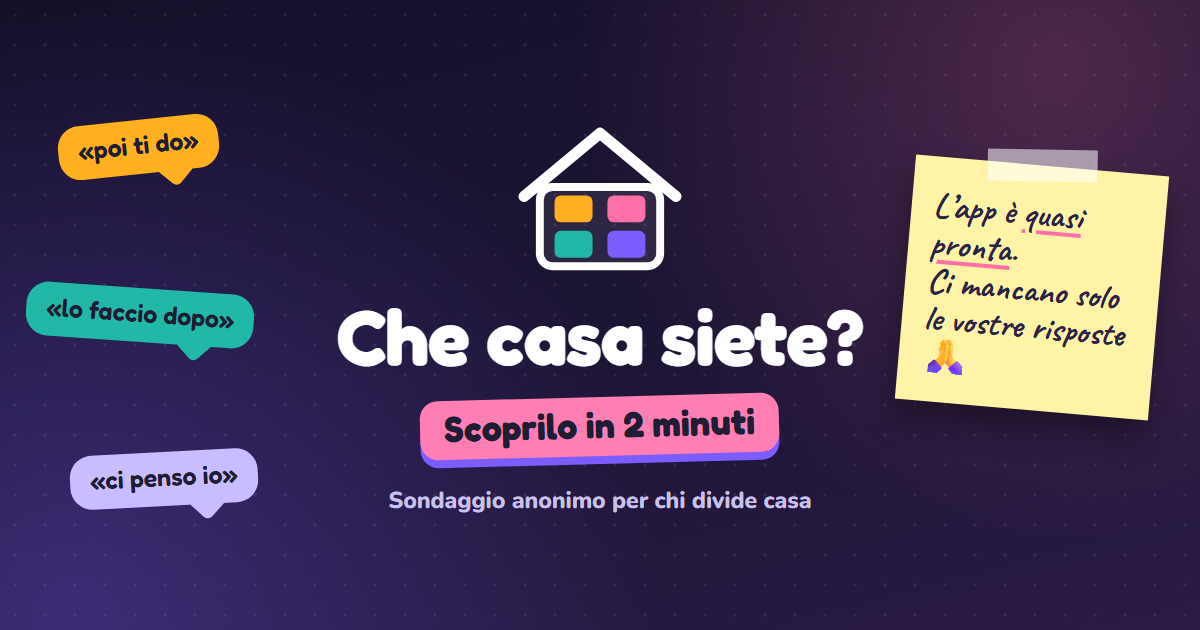
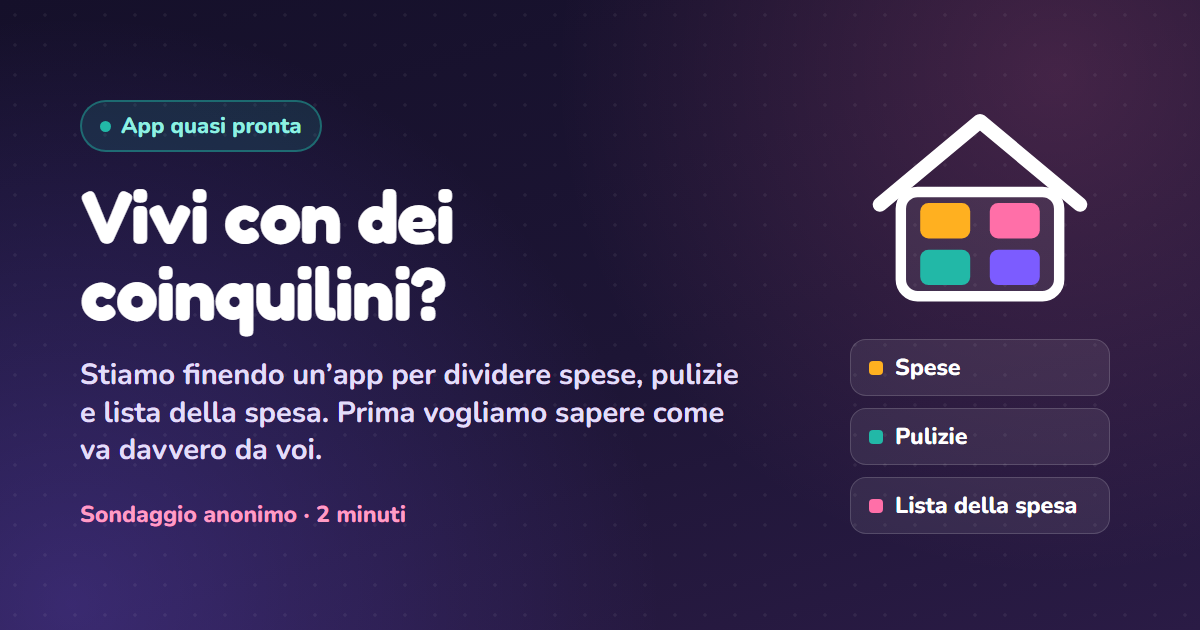
Anteprima v5.3: tolta l'ironia, quadro della casa, copertina più professionale (non salva le risposte)

diff --git a/che-casa-r8m2/index.html b/che-casa-r8m2/index.html
@@ -3,12 +3,12 @@
 <head>
 <meta charset="utf-8">
 <meta name="viewport" content="width=device-width, initial-scale=1, viewport-fit=cover">
-<title>Che casa siete? 🏠</title>
+<title>Sondaggio per chi divide casa</title>
 <meta name="description" content="Versione di prova: sondaggio anonimo per chi divide casa. Le risposte non vengono salvate.">
 <meta name="robots" content="noindex">
 <meta name="theme-color" content="#15102a">
 <meta property="og:type" content="website">
-<meta property="og:title" content="Che casa siete? 🏠">
+<meta property="og:title" content="Vivi con dei coinquilini?">
 <meta property="og:description" content="Versione di prova: sondaggio anonimo per chi divide casa. Le risposte non vengono salvate.">
 <meta property="og:image" content="https://inqui-sondaggio.pages.dev/anteprima-whatsapp-5.png">
 <meta property="og:url" content="https://inqui-sondaggio.pages.dev/che-casa-r8m2/">
@@ -75,9 +75,9 @@
   .puntini i { width: 9px; height: 9px; border-radius: 3px; }
   .puntini i:nth-child(1) { background: var(--giallo); } .puntini i:nth-child(2) { background: var(--rosa); }
   .puntini i:nth-child(3) { background: var(--turchese); } .puntini i:nth-child(4) { background: var(--viola); }
-  h1 { font: 700 44px/1.02 Fredoka, Nunito, sans-serif; margin: 0; letter-spacing: -.5px; }
-  .evid { display: inline-block; margin: 14px 0 0; padding: 6px 16px 8px; border-radius: 14px; background: var(--evid); color: var(--ink);
-    font: 700 24px/1.1 Fredoka, Nunito, sans-serif; box-shadow: 0 6px 0 var(--viola); transform: rotate(-1.2deg); }
+  h1 { font: 700 38px/1.08 Fredoka, Nunito, sans-serif; margin: 0; letter-spacing: -.4px; }
+  .evid { display: inline-block; margin: 16px 0 0; padding: 6px 14px 7px; border-radius: 12px; background: var(--evid); color: var(--ink);
+    font: 600 19px/1.1 Fredoka, Nunito, sans-serif; }
   .lead { margin: 26px 0 0; padding: 14px 16px 14px 18px; border-radius: 16px; background: var(--card); border: 1px solid var(--line);
     border-left: 4px solid var(--viola); color: #e3ddfa; font-size: 16px; }
   .meta { margin: 12px 0 0; font-size: 14px; font-weight: 700; color: var(--soft); }
@@ -131,7 +131,7 @@
 
   /* risultato */
   /* schermata finale: tutta in una schermata del telefono */
-  .fine { display: grid; gap: 10px; margin-top: 10px; }
+  .fine { display: grid; gap: 8px; margin-top: 6px; }
   .ok-invio { margin: 2px 0 0; font-size: 13px; font-weight: 700; color: #8ff0e2; text-align: center; }
   .carta { padding: 16px 16px 14px; border-radius: 22px; background: linear-gradient(160deg, #2b2050, #1c1536); border: 1px solid var(--line);
     box-shadow: 0 14px 40px rgba(0,0,0,.35); }
@@ -142,10 +142,10 @@
   .carta .pre { margin: 0; font: 600 15px/1 Fredoka, Nunito, sans-serif; color: var(--soft); }
   .carta h2 { margin: 6px 0 0; font-size: 23px; line-height: 1.15; }
   .carta .nome { display: inline; padding: 1px 8px 3px; border-radius: 10px; background: var(--evid); color: var(--ink); box-decoration-break: clone; -webkit-box-decoration-break: clone; }
-  .carta .descr { margin: 12px 0 0; color: #e3ddfa; font-size: 16px; line-height: 1.35; }
+  .carta .descr { margin: 10px 0 0; color: #e3ddfa; font-size: 15px; line-height: 1.35; }
   .chips { display: flex; flex-wrap: wrap; gap: 6px; margin: 10px 0 0; padding: 0; list-style: none; }
   .chips li { padding: 5px 10px; border-radius: 999px; background: rgba(255,255,255,.08); border: 1px solid var(--line); font-size: 13px; font-weight: 700; }
-  .box { padding: 14px 16px; border-radius: 20px; background: var(--card); border: 1px solid var(--line); }
+  .box { padding: 12px 16px; border-radius: 20px; background: var(--card); border: 1px solid var(--line); }
   .box h3 { margin: 0; font: 600 19px/1.15 Fredoka, Nunito, sans-serif; }
   .box > p { margin: 4px 0 0; color: #e3ddfa; font-size: 15px; }
   .due { display: flex; gap: 8px; margin-top: 10px; }
@@ -167,7 +167,7 @@
     background: transparent; border: 1.5px solid var(--line); color: var(--txt); text-decoration: none; font-weight: 800; font-size: 16px; line-height: 1.25; text-align: center; }
   .fuori .evid { font-size: 22px; }
 
-  @media (max-width: 380px) { h1 { font-size: 38px; } h2 { font-size: 24px; } .evid { font-size: 21px; } .mancano { min-width: 0; } }
+  @media (max-width: 380px) { h1 { font-size: 34px; } h2 { font-size: 24px; } .evid { font-size: 18px; } .mancano { min-width: 0; } }
   @media (prefers-reduced-motion: reduce) {
     *, *::before, *::after { animation: none !important; transition: none !important; }
   }
@@ -199,9 +199,9 @@
   <section class="schermo" data-id="casa" data-tipo="uno">
     <div class="apertura">
       <div class="puntini" aria-hidden="true"><i></i><i></i><i></i><i></i></div>
-      <h1>Che casa siete?</h1>
-      <p class="evid">Scoprilo in 2 minuti.</p>
-      <p class="lead">Stiamo finendo un’app per chi vive con dei coinquilini. Prima degli ultimi ritocchi vogliamo sapere come va davvero da voi, anche se fila tutto liscio. Alla fine ti diciamo che casa siete.</p>
+      <h1>Spese, pulizie, spesa: come va da voi?</h1>
+      <p class="evid">2 minuti · anonimo</p>
+      <p class="lead">Stiamo finendo un’app per chi divide casa: spese da dividere, turni delle pulizie e lista della spesa. Prima degli ultimi ritocchi vogliamo sapere come vanno davvero le cose nelle case condivise, anche quando va tutto bene. Alla fine ti mostriamo il quadro della tua casa.</p>
     </div>
     <h2 tabindex="-1">Vivi con dei coinquilini?</h2>
     <div class="scelte">
@@ -351,7 +351,7 @@
     <p class="aiuto" id="a-frasecasa">Scrivilo come lo scriveresti davvero. Se non ti va, salta.</p>
     <textarea id="frasecasa" maxlength="300" placeholder="Scrivi qui…" aria-label="Il tuo messaggio"></textarea>
     <p class="conta" id="conta-frasecasa"></p>
-    <div class="azioni"><button type="button" class="avanti">Vedi il profilo della tua casa</button><button type="button" class="salta">Salta e vedi il profilo</button></div>
+    <div class="azioni"><button type="button" class="avanti">Vedi il quadro della tua casa</button><button type="button" class="salta">Salta e vedi il quadro</button></div>
   </section>
 
   <!-- FINE -->
@@ -360,7 +360,7 @@
       <div class="testa">
         <div class="casa" id="r-casa" aria-hidden="true"></div>
         <div class="titoli">
-          <p class="pre" id="r-pre">Siete una</p>
+          <p class="pre" id="r-pre">Il quadro della tua casa</p>
           <h2 tabindex="-1" id="r-tit"><span class="nome" id="r-nome"></span></h2>
         </div>
       </div>
@@ -369,8 +369,8 @@
     </div>
 
     <div class="box">
-      <h3 id="s-tit">Fallo fare ai tuoi coinquilini</h3>
-      <p id="s-txt">Vediamo se a loro esce lo stesso.</p>
+      <h3 id="s-tit">Giralo ai tuoi coinquilini</h3>
+      <p id="s-txt">Ci aiuti a rifinire l’app. Bastano due minuti.</p>
       <div class="due">
         <a class="wa" id="s-casa" href="https://wa.me/" target="_blank" rel="noopener"><svg aria-hidden="true"><use href="#wa"/></svg>Gruppo di casa</a>
         <a class="wa alt" id="s-amico" href="https://wa.me/" target="_blank" rel="noopener"><svg aria-hidden="true"><use href="#wa"/></svg>A un amico</a>
@@ -392,8 +392,8 @@
   </section>
 
   <section class="schermo fuori" id="fuori" hidden>
-    <h2 tabindex="-1" id="f-tit">Ok, allora ci fai un favore?</h2>
-    <p class="lead">Questo sondaggio è per chi vive con dei coinquilini. Se ne conosci qualcuno, giraglielo: ci dai una bella mano.</p>
+    <h2 tabindex="-1" id="f-tit">Questo sondaggio è per chi divide casa</h2>
+    <p class="lead">Se conosci qualcuno che vive con dei coinquilini, giraglielo: ci aiuti a rifinire l’app.</p>
     <a class="wa" id="f-wa" href="https://wa.me/" target="_blank" rel="noopener"><svg aria-hidden="true"><use href="#wa"/></svg>Mandalo a chi vive con coinquilini</a>
     <button type="button" class="secondario" id="f-stesso">Fallo lo stesso, pensando a una casa che conosci</button>
     <button type="button" class="link" id="f-copia">Copia il link</button>
@@ -412,7 +412,8 @@
   // Versione 5 (12 novembre 2026): rifatta da zero con le 7 decisioni di Giovanni.
   // 5.1: spese al posto di «come vi organizzate», orario dei promemoria, passi contati, chi dice «No» può farlo lo stesso.
   // 5.2: testi, anteprima WhatsApp e messaggi di condivisione riscritti con la skill Humanizer.
-  var VERSIONE = 5, REVISIONE = '5.2', PRE = 'prova_v5_';
+  // 5.3: niente più «Che casa siete?» né ironia: alla fine il quadro della casa, messaggi più professionali.
+  var VERSIONE = 5, REVISIONE = '5.3', PRE = 'prova_v5_';
 
   function $(id){ return document.getElementById(id); }
   function sez(id){ return document.querySelector('section[data-id="' + id + '"]'); }
@@ -608,41 +609,19 @@
     s.querySelector('.salta').addEventListener('click', function(){ A[id] = ''; t.value = ''; avanti(); });
   });
 
-  // ---------- la ricompensa: a fine passo, frase a sorpresa ----------
+  // ---------- a fine passo: un avviso breve su cosa viene dopo ----------
   var tFlash = null;
   function testoPremio(p){
-    if (p === 1) {
-      var n = A.persone;
-      if (n === '2') return uno(['In due: o si va d’accordo, o si va d’accordo.', 'In due: zero scuse, si sa sempre chi è stato.']);
-      if (n === '3') return uno(['In tre: perfetto per decidere a maggioranza.', 'In tre: c’è sempre qualcuno che fa da arbitro.']);
-      if (n === '4') return uno(['In quattro: un bagno, quattro idee diverse di «pulito».', 'In quattro: il gruppo WhatsApp di casa non dorme mai.']);
-      if (n === '5 o più') return uno(['Praticamente un condominio. Rispetto.', 'Così tanti? Il frigo è un campo di battaglia.']);
-      return 'Ancora non sai con chi vivrai? Ci sta.';
-    }
-    if (p === 2) {
-      if (A.casa === ANDRO) return uno(['Pensarci prima è già metà del lavoro.', 'Chi ci pensa prima, poi litiga meno.']);
-      var pool = [], P = {
-        faccenda: ['Il bagno ringrazia per la sincerità.', 'I piatti non scappano. Purtroppo.'],
-        'al posto': ['Fare anche la parte degli altri stanca. Lo sappiamo.'],
-        ricordare: ['Chiedere indietro i soldi: il lavoro meno pagato del mondo.'],
-        conti: ['I conti a occhio funzionano. Finché non funzionano più.'],
-        finito: ['La carta igienica finisce sempre quando tocca a qualcun altro comprarla.']
-      };
-      problemi().forEach(function(k){ pool = pool.concat(P[k] || []); });
-      return pool.length ? uno(pool) : uno(['Zero intoppi? Ci avete incuriosito.', 'Una casa tranquilla. Prendiamo appunti.']);
-    }
-    if (p === 3) {
-      return { 'mi sprona': 'Ok, un po’ di sfida ti piace.', indifferente: 'Ok, a te basta che le cose siano fatte.',
-        disagio: 'Ok, niente gare per te.', tensioni: 'Ok, meglio non mettervi in gara.' }[A.classifica]
-        || 'Anche «non saprei» ci aiuta.';
-    }
+    if (p === 1) return A.casa === ANDRO ? 'Ora qualche domanda su cosa ti aspetti.' : 'Ora qualche domanda su come vanno le cose in casa.';
+    if (p === 2) return 'Grazie. Ora qualche domanda sull’app.';
+    if (p === 3) return 'Ultime due domande, poi vedi il quadro della tua casa.';
     return '';
   }
   function premio(p){
     var t = testoPremio(p); if (!t) return;
     var f = $('flash');
     $('flash-tit').textContent = 'Passo ' + p + ' fatto';
-    $('flash-em').textContent = ['🏠', '✨', '🎯'][p - 1] || '✨';
+    $('flash-em').textContent = '✓';
     $('flash-txt').textContent = t;
     f.hidden = false; f.classList.remove('su'); void f.offsetWidth; f.classList.add('su');
     clearTimeout(tFlash); tFlash = setTimeout(chiudiPremio, 2800);
@@ -709,32 +688,35 @@
     if (p.length === 1) return p[0];
     return A.pesa && A.pesa !== 'nessuna in particolare' ? A.pesa : 'misto';
   }
+  // Il quadro della casa: il punto principale, detto in modo semplice, e cosa fa l'app per quel punto.
   var PROFILI = {
-    faccenda: ['Casa «lo faccio dopo»', 'Da voi i piatti aspettano. A volte per giorni.'],
-    'al posto': ['Casa «ci penso io»', 'C’è sempre qualcuno che fa anche la parte degli altri. E di solito sei tu.'],
-    ricordare: ['Casa «poi ti do»', 'I soldi tornano, prima o poi. Il problema è doverli chiedere.'],
-    conti: ['Casa «facciamo a occhio»', 'Chi deve quanto a chi? Da voi si va a occhio. Finché regge.'],
-    finito: ['Casa «chi ha finito la carta?»', 'La carta igienica finisce sempre nel momento sbagliato. E nessuno l’ha comprata.'],
-    misto: ['Casa «un po’ di tutto»', 'Un po’ di piatti, un po’ di soldi, un po’ di carta finita. Da voi non ci si annoia.'],
-    nessuna: ['Casa orologio svizzero', 'Da voi fila tutto liscio. Siete rari, e ci servite anche voi.'],
-    'paura faccende': ['Casa «ci penso prima»', 'Non ci sei ancora e pensi già a chi pulirà il bagno. Ottimo inizio.'],
-    'paura soldi': ['Casa «ci penso prima»', 'Non ci sei ancora e pensi già a come dividere le spese. Ottimo inizio.'],
-    'paura spesa': ['Casa «ci penso prima»', 'Non ci sei ancora e pensi già a chi comprerà la carta igienica. Ottimo inizio.'],
-    'paura accordo': ['Casa «ci penso prima»', 'Non ci sei ancora e per te conta soprattutto andare d’accordo.'],
-    'paura niente': ['Casa «ci penso prima»', 'Non ci sei ancora e non ti spaventa niente. Ci piace.']
+    faccenda: ['Le pulizie restano indietro', 'Piatti o bagno sono rimasti da fare per giorni. Con i turni nell’app ognuno sa cosa gli tocca e quando.'],
+    'al posto': ['Le faccende non sono divise bene', 'C’è chi ha fatto cose che toccavano ad altri. Con i turni nell’app ognuno sa cosa gli tocca e quando.'],
+    ricordare: ['I soldi da chiedere indietro', 'Qualcuno ha dovuto chiedere indietro dei soldi. Nell’app ogni spesa resta segnata: si vede chi deve cosa, senza chiedere.'],
+    conti: ['I conti di casa non sono chiari', 'Non si capiva più chi doveva soldi a chi. Nell’app ogni spesa si divide appena la segni.'],
+    finito: ['Le cose di casa finiscono', 'Qualcosa è finito e nessuno l’aveva ricomprato. Con la lista della spesa comune, chi esce vede cosa manca.'],
+    misto: ['Più di un punto da sistemare', 'Più di un problema nell’ultimo mese. Spese, pulizie e lista della spesa sono proprio le tre parti dell’app.'],
+    nessuna: ['Una casa che funziona', 'Nell’ultimo mese nessuno di questi problemi. Anche questo ci serve: capire cosa fa funzionare una casa.'],
+    'paura faccende': ['Le pulizie e i turni', 'Nell’app ci sono i turni delle pulizie: ognuno sa cosa gli tocca e quando, fin dal primo giorno.'],
+    'paura soldi': ['I soldi e le spese', 'Nell’app ogni spesa si divide appena la segni e si vede sempre chi deve cosa.'],
+    'paura spesa': ['Le cose da comprare', 'Nell’app c’è una lista della spesa comune: chi passa dal supermercato vede cosa manca.'],
+    'paura accordo': ['Andare d’accordo', 'Quando spese e turni sono chiari per tutti, ci sono meno motivi per discutere.'],
+    'paura niente': ['Niente in particolare', 'Un buon punto di partenza. Con spese, turni e lista della spesa in un posto solo è più facile che resti così.']
   };
-  var SPESE = { 'parti uguali': '➗ Tutto in parti uguali', 'affitto diverso': '🏷 Affitto diverso, resto uguale', 'ognuno il suo': '🛒 Ognuno per conto suo', 'a occhio': '👀 Spese a occhio' };
+  var SPESE = { 'parti uguali': '➗ Tutto in parti uguali', 'affitto diverso': '🏷 Affitto diverso, resto uguale', 'ognuno il suo': '🛒 Ognuno per conto suo', 'a occhio': '👀 Spese senza una regola' };
   var PROMEMORIA = { mattina: '☀ Promemoria la mattina', pausa: '☕ Promemoria in pausa', rientro: '🔑 Promemoria al rientro', sera: '🌙 Promemoria dopo cena', weekend: '🧺 Promemoria nel weekend', nessuno: '🔕 Niente promemoria' };
-  var ADOZIONE = { 'la propongo e la usiamo tutti': '🙋 La proporresti tu', 'la propongo ma qualcuno no': '🙋 La proporresti tu', 'aspetto qualcun altro': '⏳ Aspetteresti gli altri', 'non la useremmo': '🙅 Per ora, no grazie', 'non so': '🤔 Ancora da vedere' };
+  var ADOZIONE = { 'la propongo e la usiamo tutti': '🙋 La proporresti tu', 'la propongo ma qualcuno no': '🙋 La proporresti tu', 'aspetto qualcun altro': '⏳ Aspetteresti gli altri', 'non la useremmo': '🙅 Per ora non la usereste', 'non so': '🤔 Ancora da vedere' };
 
   function riga(){
     var r = { tipo: 'risposta', versione: VERSIONE, revisione: REVISIONE, id: ID_RISPOSTA, giorno: oggi(), da: DA };
     ORDINE.forEach(function(id){ if (visibile(id) && A[id] !== undefined) r[id] = A[id]; });
     if (r.frase !== undefined) r.ordinefrasi = A.ordinefrasi || ORDINE_FRASI;
-    if (A.casa !== NO || LOSTESSO) { var k = principale(); r.principale = k; r.profilo = (PROFILI[k] || [''])[0].replace(/^Casa /, '').replace(/[«»]/g, ''); }
+    if (A.casa !== NO || LOSTESSO) { var k = principale(); r.principale = k; r.profilo = (PROFILI[k] || [''])[0]; }
     return r;
   }
 
+  // Messaggio per chi non è della stessa casa (amici, o chi ha risposto «No» e lo gira).
+  var MSG_AMICO = 'Vivi con dei coinquilini? C’è un sondaggio di due minuti, anonimo, su spese, pulizie e lista della spesa.\n\nLo fa un team che sta finendo un’app per chi divide casa: se ti va di rispondere, gli dai una mano.';
   function linkDa(et){ return location.origin + location.pathname + '?da=' + et; }
   function wa(testo, url){ return 'https://wa.me/?text=' + encodeURIComponent(testo + '\n\n👉 ' + url); }
   function copia(url, b){
@@ -747,27 +729,25 @@
 
   function risultato(){
     var k = principale(), p = PROFILI[k] || PROFILI.nessuna;
-    $('r-pre').textContent = A.casa === SI ? 'Siete una' : A.casa === VISSUTO ? 'Eravate una' : A.casa === NO ? 'Quella casa è una' : 'Sarà una';
+    $('r-pre').textContent = A.casa === SI ? 'Il quadro della tua casa' : A.casa === VISSUTO ? 'Il quadro della tua ultima casa' : A.casa === NO ? 'Il quadro di quella casa' : 'Ciò che ti preoccupa di più';
     $('r-casa').innerHTML = casetta(quanti());
     $('r-nome').textContent = p[0];
     $('r-descr').textContent = p[1];
     var chips = [];
     if (quanti()) chips.push('👥 In ' + (A.persone === '5 o più' ? '5 o più' : A.persone));
-    if (A.casa !== ANDRO) { var n = problemi().length; chips.push(n ? '⚡ ' + n + (n === 1 ? ' intoppo' : ' intoppi') + ' in un mese' : '✨ Zero intoppi'); }
+    if (A.casa !== ANDRO) { var n = problemi().length; chips.push(n ? '⚠ ' + n + (n === 1 ? ' problema' : ' problemi') + ' nell’ultimo mese' : '✅ Nessun problema'); }
     if (SPESE[A.spese]) chips.push(SPESE[A.spese]);
     if (PROMEMORIA[A.promemoria]) chips.push(PROMEMORIA[A.promemoria]);
     if (ADOZIONE[A.adozione]) chips.push(ADOZIONE[A.adozione]);
     var ul = $('r-chips'); ul.textContent = '';
-    chips.slice(0, 3).forEach(function(c){ var li = document.createElement('li'); li.textContent = c; ul.appendChild(li); });
+    chips.slice(0, 2).forEach(function(c){ var li = document.createElement('li'); li.textContent = c; ul.appendChild(li); });
 
     // Condivisione: ai coinquilini (stessa casa) e agli amici, ognuno con la sua etichetta.
-    // nel messaggio il nome va con la minuscola: «siamo una casa “poi ti do”»
-    var nome = p[0].charAt(0).toLowerCase() + p[0].slice(1);
-    var msgCasa = 'Ho fatto un sondaggio sulla vita tra coinquilini e dice che siamo una ' + nome + ' 😅\n\nSono due minuti ed è anonimo. Fatelo anche voi, vediamo se vi esce uguale 👀';
-    var msgAmico = 'Tu che vivi con dei coinquilini: fai questo sondaggio, sono due minuti ed è anonimo 🏠\n\nAlla fine ti dice che casa siete. A me è uscita ' + nome + ' 😂';
+    var msgCasa = 'Ho risposto a un sondaggio per chi divide casa: spese, pulizie e lista della spesa. Lo fa un team che sta finendo un’app proprio per questo.\n\nSono due minuti ed è anonimo: se vi va di rispondere anche voi, li aiutate parecchio.';
+    var msgAmico = MSG_AMICO;
     var conCasa = A.casa === SI;
-    $('s-tit').textContent = conCasa ? 'Fallo fare ai tuoi coinquilini' : 'Conosci qualcuno che vive con coinquilini?';
-    $('s-txt').textContent = conCasa ? 'Vediamo se a loro esce lo stesso.' : 'Mandaglielo, ci dai una mano.';
+    $('s-tit').textContent = conCasa ? 'Giralo ai tuoi coinquilini' : 'Conosci qualcuno che vive con coinquilini?';
+    $('s-txt').textContent = conCasa ? 'Ci aiuti a rifinire l’app. Bastano due minuti.' : 'Giraglielo: ci aiuti a rifinire l’app.';
     $('s-casa').hidden = !conCasa;
     $('s-casa').href = wa(msgCasa, linkDa('condivisione-casa'));
     $('s-amico').href = wa(msgAmico, linkDa('condivisione'));
@@ -795,8 +775,7 @@
     nascondiTutto(); $('avanz').hidden = true; $('navi').hidden = true;
     rigaFuori = riga();
     if (ENDPOINT) { inCoda(rigaFuori); tFuori = setTimeout(function(){ send(rigaFuori).catch(function(){}); }, 6000); }
-    var msg = 'Vivi con dei coinquilini? 🏠\n\nC’è un sondaggio di due minuti, anonimo, che alla fine ti dice che casa siete. Lo fanno quelli che stanno finendo un’app per chi divide casa, mi hanno chiesto di girarlo 🙂';
-    $('f-wa').href = wa(msg, linkDa('condivisione'));
+    $('f-wa').href = wa(MSG_AMICO, linkDa('condivisione'));
     $('fuori').hidden = false; window.scrollTo(0, 0); $('f-tit').focus({ preventScroll: true });
   }
   $('f-torna').addEventListener('click', function(){
